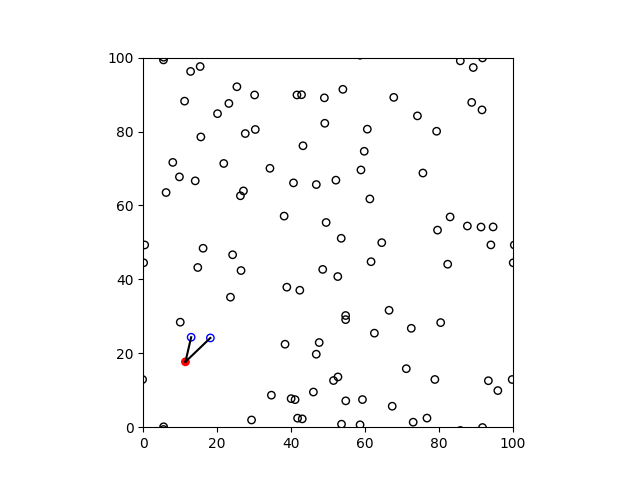
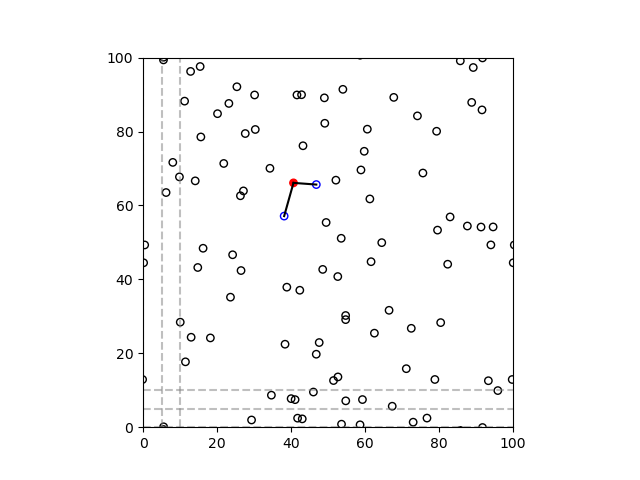
added generator for random coordinates and edited plotter

diff --git a/plotter/generator.py b/plotter/generator.py
@@ -1,0 +1,53 @@
+import json
+import random
+import math
+
+# Función para verificar si dos partículas se superponen
+def is_overlapping(p1, p2):
+    distance = math.sqrt((p1["x"] - p2["x"]) ** 2 + (p1["y"] - p2["y"]) ** 2)
+    return distance < (p1["radius"] + p2["radius"])
+
+# Leer la configuración desde el archivo config.json
+with open('../config.json', 'r') as config_file:
+    config = json.load(config_file)
+
+# Configurar la semilla
+if "seed" in config:
+    random.seed(config["seed"])
+else:
+    seed = random.randint(0, 1000000)
+    random.seed(seed)
+    config["seed"] = seed
+    print(f"Semilla aleatoria generada: {seed}")
+
+# Definir los límites para las coordenadas
+L = config.get("L", 20)
+
+# Leer el array de partículas y sus radios desde el archivo de configuración
+particles_config = config["particles"]
+
+# Generar partículas con coordenadas aleatorias sin superposición
+particles = []
+for particle_config in particles_config:
+    particle = {}
+    while True:
+        particle = {
+            "x": round(random.uniform(0, L), 1),
+            "y": round(random.uniform(0, L), 1),
+            "radius": particle_config["radius"]
+        }
+        
+        # Verificar si la partícula se superpone con alguna existente
+        if not any(is_overlapping(particle, p) for p in particles):
+            break  # Si no hay superposición, sal del loop y añade la partícula
+
+    particles.append(particle)
+
+# Crear el JSON de salida con el formato requerido
+output = [{"particles": particles}]
+
+# Guardar el JSON de salida en un archivo
+with open('positions.json', 'w') as output_file:
+    json.dump(output, output_file, indent=4)
+
+print("Archivo JSON generado con éxito.")

diff --git a/plotter/plotter.py b/plotter/plotter.py
@@ -1,4 +1,6 @@
 # Plot circles and add text
+import json
+
 import numpy as np
 import pandas as pd
 from matplotlib import pyplot as plt
@@ -41,6 +43,21 @@ def plot_circle(x, y, ax, radius, xlim, ylim, color, fill):
         ax.add_patch(wrapper_circle)
 
 
+# Load the configuration
+with open("../config.json", "r") as config_file:
+    config = json.load(config_file)
+
+# Extract values from config
+L = config["L"]
+r_c = config["r_c"]
+
+# Calculate cell size
+cell_size = L/r_c
+
+# Calculate number of cells
+num_cells = int(L / cell_size)
+
+p_df = pd.read_json("../CIM/position.json")
 df = pd.read_json("neighbours.json")
 radius = 1
 xlim = 100
@@ -95,6 +112,14 @@ for i in range(0, 99):
         continue
     plot_circle(df[i].x, df[i].y, ax, radius, xlim, ylim, "black", False)
     already_plotted.append(i)
+
+# Add vertical lines
+for x in range(num_cells + 1):
+    ax.axvline(x=x * cell_size, color="gray", linestyle="--", alpha=0.5)
+
+# Add horizontal lines
+for y in range(num_cells + 1):
+    ax.axhline(y=y * cell_size, color="gray", linestyle="--", alpha=0.5)
 
 ax.set_xlim(0, xlim)
 ax.set_ylim(0, ylim)
